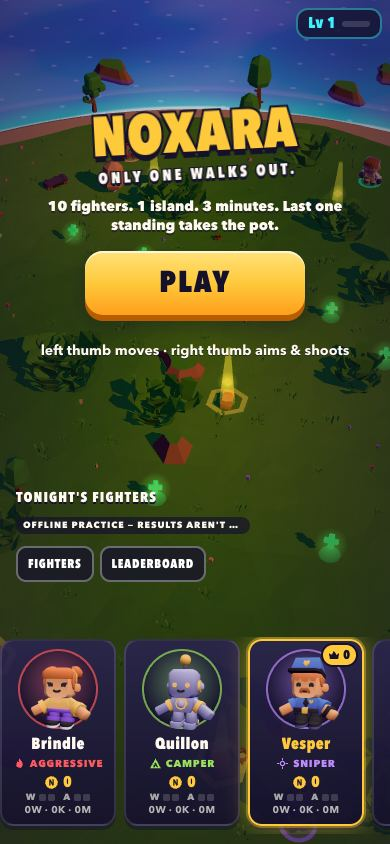
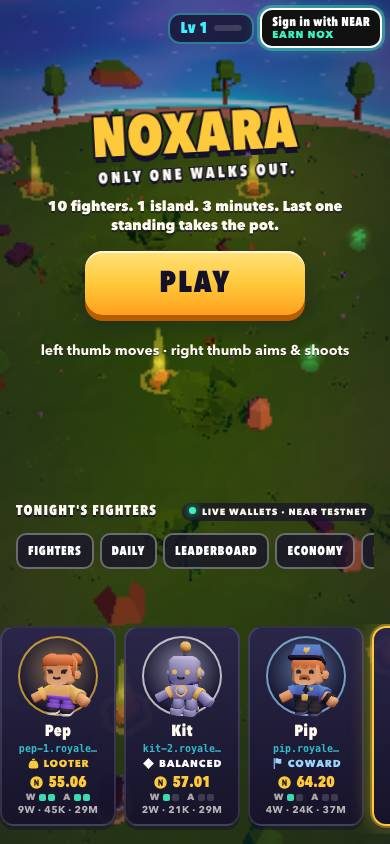
UI: shares instead of legacy sponsorship on fighter cards/profile; legacy chip only for old positions; refreshed title/fighters screenshots; discretionary decisions logged

diff --git a/src/ui/pages.ts b/src/ui/pages.ts
@@ -3,7 +3,7 @@
 import type { BotMarket, FighterInfo, GameClient, GameClientT3, LeaderRow, Sponsorship } from "../net/api";
 import { acctTag, isChainAcct } from "./acct";
 import { h, icon, ICON, PERSONALITY_COLOR, PERSONALITY_ICON, fmt } from "./dom";
-import { renderEconomy, renderNear } from "./econ";
+import { hasEcon, renderEconomy, renderNear } from "./econ";
 
 export interface PageDeps {
   client(): GameClient | null;
@@ -142,7 +142,7 @@ export class Pages {
       const all = this.d.fighters();
       const active = all.filter((f) => f.status === "active").sort((a, b) => b.balance - a.balance);
       const retired = all.filter((f) => f.status === "retired");
-      body.appendChild(h("p", "page-lede", "Nine AI fighters with their own NEAR wallets. They pay to enter, keep what they win, buy upgrades — and retire when they go broke. Pick one to read its story or back it with NOX."));
+      body.appendChild(h("p", "page-lede", "Nine AI fighters with their own NEAR wallets. They pay to enter, keep what they win, buy upgrades — and retire when they go broke. Pick one to read its story — or own its shares on the ECONOMY page."));
       const grid = h("div", "fgrid");
       for (const f of active) grid.appendChild(this.miniCard(f));
       body.appendChild(grid);
@@ -152,13 +152,20 @@ export class Pages {
         for (const f of retired) g2.appendChild(this.miniCard(f));
         body.appendChild(g2);
       }
-      void this.loadMarket().then(() => {
-        for (const el of body.querySelectorAll<HTMLElement>("[data-acct]")) {
-          const m = this.market.find((x) => x.bot === el.dataset.acct);
-          const s = el.querySelector(".mc-stake");
-          if (m && s) s.textContent = m.sponsors ? `${m.sponsors} sponsor${m.sponsors === 1 ? "" : "s"} · ${fmt(m.totalStake)} staked` : "no sponsors yet";
-        }
-      });
+      // economy v2: fans own SHARES (sponsorship is legacy); show shares sold / holders per fighter
+      const c = this.d.client();
+      if (hasEcon(c)) {
+        void c.sharesMarket().then((rows) => {
+          for (const el of body.querySelectorAll<HTMLElement>("[data-acct]")) {
+            const r = rows.find((x) => x.bot === el.dataset.acct);
+            const s = el.querySelector(".mc-stake");
+            if (!s) continue;
+            if (!r) s.textContent = "";
+            else if (r.status === "retired") s.textContent = "shares went to zero";
+            else s.textContent = r.sharesSold ? `${r.sharesSold}/1000 shares owned · ${r.holders} holder${r.holders === 1 ? "" : "s"}` : `IPO open: ${r.ipoLeft} shares at ${fmt(r.ipoPrice)} NOX`;
+          }
+        }).catch(() => undefined);
+      }
     };
     this.show("FIGHTERS", render);
   }
@@ -240,15 +247,15 @@ export class Pages {
 
       // sponsor box
       const sbox = h("div", "pf-sponsor");
-      const stakeLine = h("p", "pf-stake", m ? (m.sponsors ? `${m.sponsors} sponsor${m.sponsors === 1 ? "" : "s"} · ${fmt(m.totalStake)} NOX staked · sponsors share ${Math.round(m.sponsorCut * 100)}% of every prize` : `No sponsors yet · sponsors share ${Math.round(m.sponsorCut * 100)}% of every prize`) : "Sponsor market opens with NEAR sign-in.");
+      const stakeLine = h("p", "pf-stake", "Own shares of this fighter: IPO shares fund its bankroll; holders earn 20% of its profit; shares go to zero if it goes broke.");
       sbox.appendChild(stakeLine);
       if (fresh.status === "active") {
         if (isT3(c) && !c.isGuest()) {
-          const btn = h("button", "btn-primary small", `BACK ${fresh.name.toUpperCase()}`);
-          btn.addEventListener("click", () => this.sponsorModal(fresh));
+          const btn = h("button", "btn-primary small", `OWN ${fresh.name.toUpperCase()} SHARES`);
+          btn.addEventListener("click", () => this.economy());
           sbox.appendChild(btn);
         } else {
-          const btn = h("button", "btn-near", "Sign in with NEAR to sponsor");
+          const btn = h("button", "btn-near", "Sign in with NEAR to own shares");
           btn.addEventListener("click", async () => {
             await this.d.signIn();
             render();

diff --git a/src/game.ts b/src/game.ts
@@ -282,7 +282,9 @@ async function refreshAccount() {
   // the sign-in entry is always offered to guests in chain mode (it explains itself if wallets aren't live yet)
   $("signin").classList.toggle("hidden", !c || c.mode !== "chain" || !guest);
   $("acct-chip").classList.toggle("hidden", !t3 || guest);
-  $("nav-sponsor").classList.toggle("hidden", !t3);
+  // economy v2: sponsorship is legacy (exit only) — the chip shows only for players who still hold an old position
+  $("nav-sponsor").classList.add("hidden");
+  if (t3 && !guest) void c.mySponsorships().then((v) => $("nav-sponsor").classList.toggle("hidden", v.length === 0)).catch(() => undefined);
   const wel = $("welcome");
   wel.classList.add("hidden");
   if (t3 && !guest) {

diff --git a/index.html b/index.html
@@ -119,7 +119,7 @@
               <button id="nav-fighters" class="btn-chip">FIGHTERS</button>
               <button id="nav-board" class="btn-chip">LEADERBOARD</button>
               <button id="nav-economy" class="btn-chip">ECONOMY</button>
-              <button id="nav-sponsor" class="btn-chip hidden">MY SPONSORSHIPS</button>
+              <button id="nav-sponsor" class="btn-chip hidden">OLD SPONSORSHIPS</button>
             </span>
           </div>
           <div id="ticker" class="ticker hidden" aria-live="polite"><b>LAST MATCH</b><span id="ticker-text"></span></div>

diff --git a/docs/DECISIONS.md b/docs/DECISIONS.md
@@ -15,3 +15,12 @@ Each decision: options → reference → value / risk / time → choice. Owner f
 | 9 | Rookie protection | none / no bounty for rookies / reduced costs early | Brawl Stars matchmaking protects new players; our sim shows most rookies fail | **First 10 matches: no upkeep, never the bounty carrier, entry at the 4-NOX minimum. Re-run the sim and report share returns (median / top 10% / portfolio)** | Gives IPO buyers a fairer start; cheap; sim-checked |
 
 Guardrails kept: no mainnet commands, no public repo, no hosting deploys, no posts. Contract changes ship only after sim + full tests + a fresh security review.
+
+## Discretionary changes (owner addendum: found → changed → why → how to undo)
+
+| # | Found | Changed | Why | Undo |
+|---|---|---|---|---|
+| D1 | Fighter cards/profile still advertised the retired v1 *sponsorship* ("no sponsors yet", "BACK <name>"), which the v2 contract now refuses | Cards show shares (owned / holders / IPO open / "went to zero"); profile button "OWN <NAME> SHARES" opens ECONOMY; the "MY SPONSORSHIPS" chip shows only for players who still hold a legacy position (renamed "OLD SPONSORSHIPS") | A judge clicking "BACK" would hit a contract error; v2 shares are the real mechanic | revert the commit "UI: shares instead of legacy sponsorship" |
+| D2 | Audit #6 M-1: one wallet-paid match funded two check-ins; at m=1.5 idle sybils farmed the House | Check-in needs a wallet-paid match TODAY and ≥3 lifetime; dailies pay ×min(m,1) so a reward is always below the 4-NOX entry; rewards cut to 1,1,1,2,2,2,3 (check-in) and 1,1,2 (quests) after the sim showed the House slipping below target −30% with the bigger set | Closed-loop rewards must not be farmable | change `CHECKIN_REWARDS`/`QUESTS` in contracts/royale/src/daily.rs + scripts/econ-params.json together (the params test enforces it) |
+| D3 | Audit "PlayerDaily layout changed without migration" | No change: the intermediate layout was never deployed | Not exploitable | — |
+| D4 | Rookie protection didn't lift share returns in the sim (portfolio −8% → −14% with the House-paid dailies) | Kept protection (fairer start, never the bounty) and reported the numbers honestly in MORNING_REPORT | Honest reporting > tuning the metric | set `ROOKIE_PROTECTED_MATCHES` to 0 |
